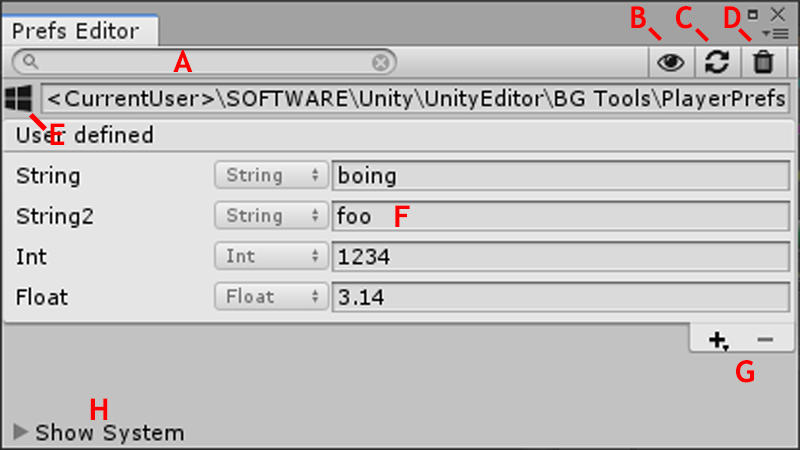
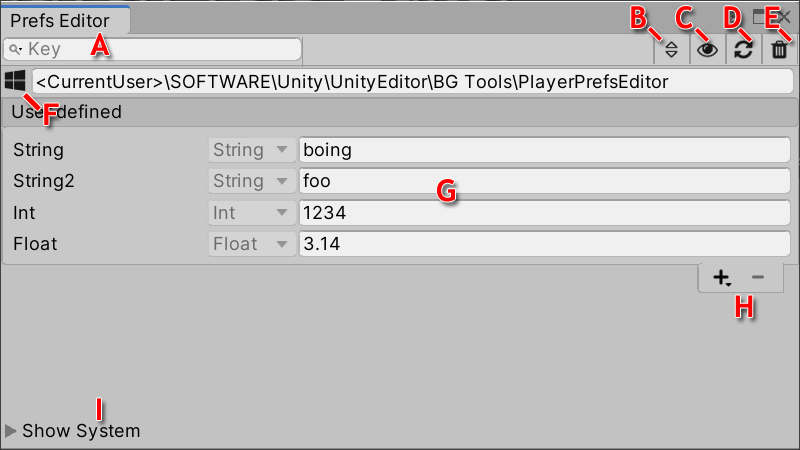
Update manual with instructions for sorting and filtering

diff --git a/Packages/PlayerPrefsEditor/Documentation~/PlayerPrefsEditor.md b/Packages/PlayerPrefsEditor/Documentation~/PlayerPrefsEditor.md
@@ -24,13 +24,14 @@ The PlayerPrefs Editor is located in the top menu at Tools/BG Tools/PlayerPrefs 
 
 The PlayerPrefs Editor window displays:
 * (A) Filter field
-* (B) Toggle 'System changes monitoring' behavior
-* (C) Refresh data
-* (D) Delete all data
-* (E) Operating system and path to PlayerPrefs data
-* (F) PlayerPrefs data list (Key, Type, Value)
-* (G) Add/Remove a PlayerPrefs entry
-* (H) Toggle visibility of system defined PlayerPrefs
+* (B) Sort mode
+* (C) Toggle 'System changes monitoring' behavior
+* (D) Refresh data
+* (E) Delete all data
+* (F) Operating system and path to PlayerPrefs data
+* (G) PlayerPrefs data list (Key, Type, Value)
+* (H) Add/Remove a PlayerPrefs entry
+* (I) Toggle visibility of system defined PlayerPrefs
 
 ### Modify Entries
 
@@ -48,9 +49,28 @@ Select the entry from the list that you want to delete. Press the '-' button to 
 
 To change a value of a existing entry do this directly in the value field in the PlayerPref list.
 
+### Sort & Filter
+
+**Sorting**
+
+Circle trought the sorting funtions by pressing the (B) button in the toolbar.
+
+Following sorting function are aviliable for the PlayerPref entries:
+* None
+* Ascending
+* Descending
+
+**Filtering**
+
+Enter a text into the the search field (A) in the toolbar to filter the PlayerPrefs data list (G).
+
+![PlayerPrefs editor searchfield modes](./Images/bgtools_ppe_manual_filterModes.png){ width=50% style="max-width:350px" }
+
+Additionally select the mode for filtering by pressing on the magnifying glass icon in the search field. Choose between filtering the existing PlayPrefs by key or value. The current search target will be shown in the searchfield if no search string is present.
+
 ### Monitoring system changes
 
-The plugin can monitor changes at runtime automatically and keep the view up-to-date. This detection is active by default, but it can be turned off over the (B) button in the toolbar.
+The plugin can monitor changes at runtime automatically and keep the view up-to-date. This detection is active by default, but it can be turned off over the (C) button in the toolbar.
 
 ## Samples
 
